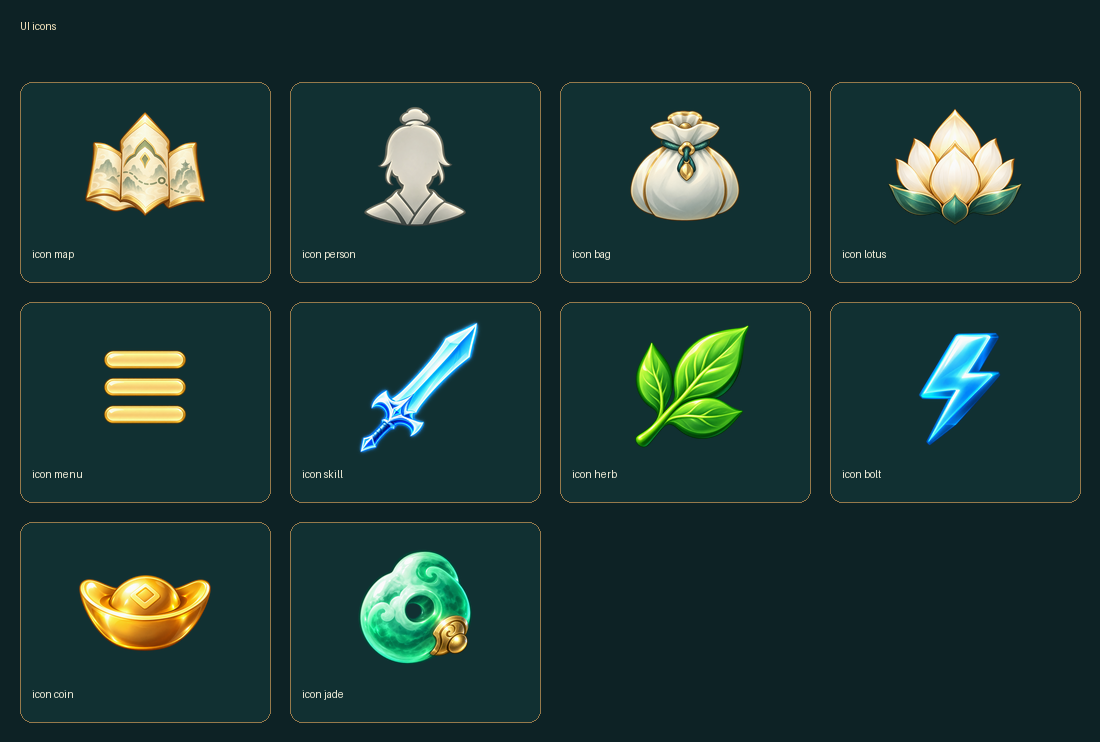
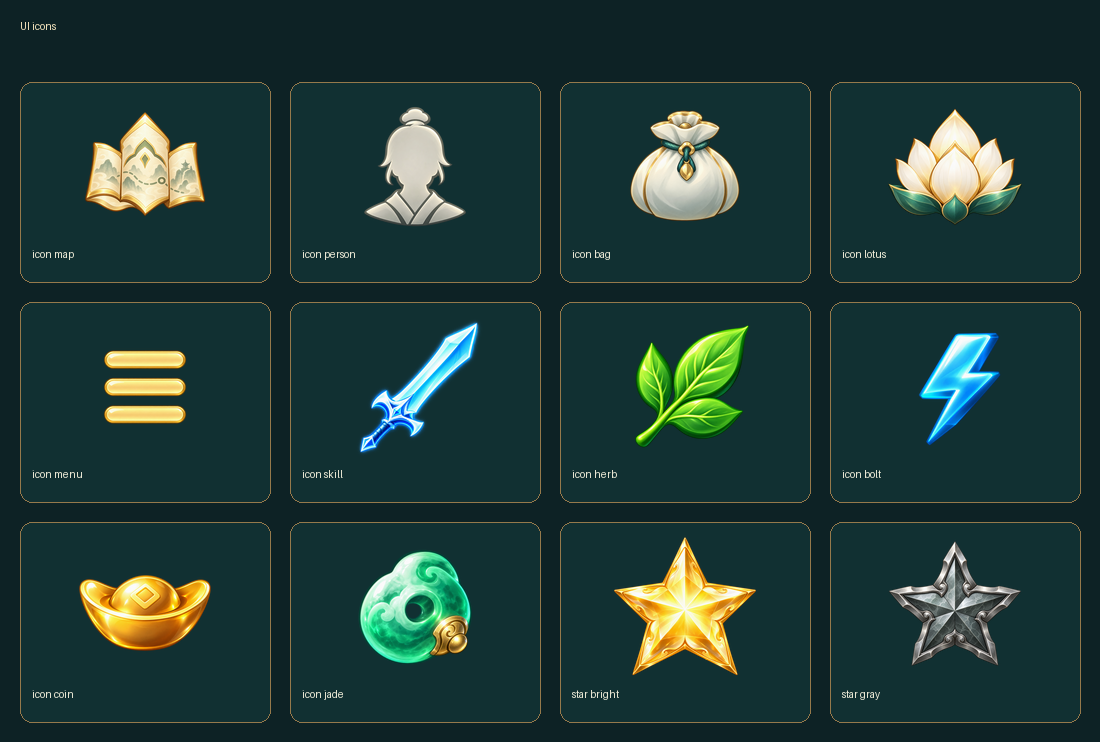
Refresh level map with star indicators

diff --git a/client/app/map.tsx b/client/app/map.tsx
@@ -1,13 +1,16 @@
 import React from 'react';
-import { Pressable, StyleSheet, Text, View } from 'react-native';
+import { FlatList, Pressable, StyleSheet, Text, View } from 'react-native';
 import { useRouter } from 'expo-router';
 import { Image } from 'expo-image';
 import { ART, Artwork } from '../src/assets';
 import { BottomNav, TopHud } from '../src/components/Chrome';
 import { ArtPanel, ScreenFrame } from '../src/components/Art';
 import { Notice } from '../src/components/Notice';
+import { LEVEL_COUNT } from '../src/game/levels';
 import { getHighestUnlocked, getLevelStars, useGameStore } from '../src/state/gameStore';
 import { colors, type } from '../src/theme';
+
+const levelIds = Array.from({ length: LEVEL_COUNT }, (_, index) => index + 1);
 
 export default function MapScreen() {
   const router = useRouter();
@@ -32,32 +35,60 @@ export default function MapScreen() {
     <ScreenFrame background="bgMap">
       <TopHud onAccount={() => router.push('/account')} />
       <View style={styles.mapArea}>
+        <FlatList
+          data={levelIds}
+          inverted
+          keyExtractor={(levelId) => String(levelId)}
+          style={StyleSheet.absoluteFill}
+          contentContainerStyle={styles.levelListContent}
+          showsVerticalScrollIndicator={false}
+          renderItem={({ item: levelId }) => {
+            const stars = getLevelStars(save, levelId);
+            const locked = levelId > unlocked;
+            const current = !locked && stars === 0;
+            const art: Artwork = stars > 0 ? 'stageDone' : locked ? 'stageLocked' : 'stageCurrent';
+
+            return (
+              <View style={styles.levelItem}>
+                <View pointerEvents="none" style={styles.starArc}>
+                  {[0, 1, 2].map((starIndex) => (
+                    <Image
+                      key={starIndex}
+                      source={starIndex < stars ? ART.starBright : ART.starGray}
+                      contentFit="contain"
+                      style={[
+                        styles.starIcon,
+                        starIndex === 0 && styles.starLeft,
+                        starIndex === 1 && styles.starTop,
+                        starIndex === 2 && styles.starRight,
+                      ]}
+                    />
+                  ))}
+                </View>
+                <Pressable
+                  accessibilityRole="button"
+                  accessibilityLabel={`Màn ${levelId}${stars > 0 ? `, ${stars} sao` : current ? ', màn hiện tại' : ', đã khóa'}`}
+                  accessibilityState={{ disabled: locked }}
+                  disabled={locked}
+                  onPress={() => void openLevel(levelId)}
+                  style={styles.stage}
+                >
+                  <Image
+                    source={ART[art]}
+                    contentFit="contain"
+                    style={[StyleSheet.absoluteFill, locked && styles.lockedStageArt]}
+                  />
+                  <Text style={[styles.stageNumber, locked && styles.lockedStageNumber]}>{levelId}</Text>
+                </Pressable>
+              </View>
+            );
+          }}
+        />
         <ArtPanel art="chapterCard" style={styles.chapter}>
           <Text style={styles.chapterEyebrow}>CHƯƠNG THỬ NGHIỆM</Text>
           <Text style={styles.chapterName}>VÂN HẢI{ '\n' }TIÊN SƠN</Text>
           <Text style={styles.chapterStars}>{totalStars}/9 ★</Text>
         </ArtPanel>
-        {[1, 2, 3].map((levelId) => {
-          const stars = getLevelStars(save, levelId);
-          const current = stars === 0 && levelId === unlocked;
-          const art: Artwork = stars > 0 ? 'stageDone' : current ? 'stageCurrent' : 'stageLocked';
-          const position = levelId === 1 ? styles.stageOne : levelId === 2 ? styles.stageTwo : styles.stageThree;
-          return (
-            <Pressable
-              key={levelId}
-              accessibilityRole="button"
-              accessibilityLabel={`Màn ${levelId}${stars > 0 ? `, ${stars} sao` : current ? ', màn hiện tại' : ', đã khóa'}`}
-              accessibilityState={{ disabled: levelId > unlocked }}
-              disabled={levelId > unlocked}
-              onPress={() => void openLevel(levelId)}
-              style={[styles.stage, position]}
-            >
-              <Image source={ART[art]} contentFit="contain" style={StyleSheet.absoluteFill} />
-              <Text style={styles.stageNumber}>{levelId}</Text>
-              {stars > 0 ? <Text style={styles.stageStars}>{'★'.repeat(stars)}</Text> : null}
-            </Pressable>
-          );
-        })}
       </View>
       <BottomNav active="map" onSelect={nav} />
       <Notice message={notice} onDismiss={() => setNotice('')} />
@@ -67,6 +98,13 @@ export default function MapScreen() {
 
 const styles = StyleSheet.create({
   mapArea: { flex: 1, minHeight: 0, position: 'relative' },
+  levelListContent: { flexGrow: 1, alignItems: 'center', paddingTop: 12, paddingBottom: 174 },
+  levelItem: { width: 100, height: 112, alignItems: 'center', marginVertical: 6 },
+  starArc: { width: 84, height: 28, position: 'relative' },
+  starIcon: { position: 'absolute', width: 24, height: 24 },
+  starLeft: { left: 0, bottom: 0, transform: [{ rotate: '-16deg' }] },
+  starTop: { left: 30, top: 0 },
+  starRight: { right: 0, bottom: 0, transform: [{ rotate: '16deg' }] },
   chapter: {
     position: 'absolute',
     top: 8,
@@ -79,10 +117,8 @@ const styles = StyleSheet.create({
   chapterEyebrow: { color: '#72512d', textAlign: 'center', fontSize: 9, fontWeight: '700' },
   chapterName: { color: '#392b1d', textAlign: 'center', fontSize: 15, fontWeight: '900', marginTop: 7 },
   chapterStars: { color: '#98702e', fontSize: 12, fontWeight: '800', marginTop: 7 },
-  stage: { position: 'absolute', width: 62, height: 74, justifyContent: 'center', alignItems: 'center' },
-  stageOne: { left: '43%', bottom: '7%' },
-  stageTwo: { left: '28%', bottom: '38%' },
-  stageThree: { left: '50%', bottom: '67%' },
+  stage: { width: 84, height: 84, justifyContent: 'center', alignItems: 'center' },
+  lockedStageArt: { tintColor: '#8f9699' },
   stageNumber: { color: colors.ivory, fontSize: 26, fontWeight: '900', textShadowColor: '#102f2d', textShadowRadius: 5 },
-  stageStars: { position: 'absolute', bottom: -3, color: colors.goldBright, fontSize: 10, letterSpacing: -1 },
+  lockedStageNumber: { color: '#c0c4c6' },
 });

diff --git a/client/src/assets.ts b/client/src/assets.ts
@@ -39,6 +39,8 @@ export const ART = {
   panelLight: require('../app-assets/ui/panel_light.webp') as ImageSourcePropType,
   skillIdle: require('../app-assets/ui/skill_idle.webp') as ImageSourcePropType,
   skillReady: require('../app-assets/ui/skill_ready.webp') as ImageSourcePropType,
+  starBright: require('../app-assets/ui/star_bright.webp') as ImageSourcePropType,
+  starGray: require('../app-assets/ui/star_gray.webp') as ImageSourcePropType,
   stageCurrent: require('../app-assets/ui/stage_current.webp') as ImageSourcePropType,
   stageDone: require('../app-assets/ui/stage_done.webp') as ImageSourcePropType,
   stageLocked: require('../app-assets/ui/stage_locked.webp') as ImageSourcePropType,

diff --git a/tools/generate_ui_assets.py b/tools/generate_ui_assets.py
@@ -75,7 +75,7 @@ def build_runtime_previews():
             "stage-done", "stage-locked", "skill-idle", "skill-ready", "avatar-frame"]),
         "runtime-preview-icons.png": ("UI icons", [
             "icon-map", "icon-person", "icon-bag", "icon-lotus", "icon-menu", "icon-skill",
-            "icon-herb", "icon-bolt", "icon-coin", "icon-jade"]),
+            "icon-herb", "icon-bolt", "icon-coin", "icon-jade", "star-bright", "star-gray"]),
         "runtime-preview-tiles.png": ("Gameplay tiles", [
             "tile-sword", "tile-fire", "tile-lightning", "tile-stone", "tile-herb", "tile-rock"]),
         "runtime-preview-overlays.png": ("Tile overlays", [
@@ -136,6 +136,8 @@ def copy_runtime_art():
         "bar-track": 1600,
         "bar-blue": 1600,
         "bar-red": 1600,
+        "star-bright": 512,
+        "star-gray": 512,
     }
     for image in sorted((SOURCE / "runtime").glob("*.png")):
         name = "panel" if image.stem == "panel-base" else image.stem.replace("-", "_")
